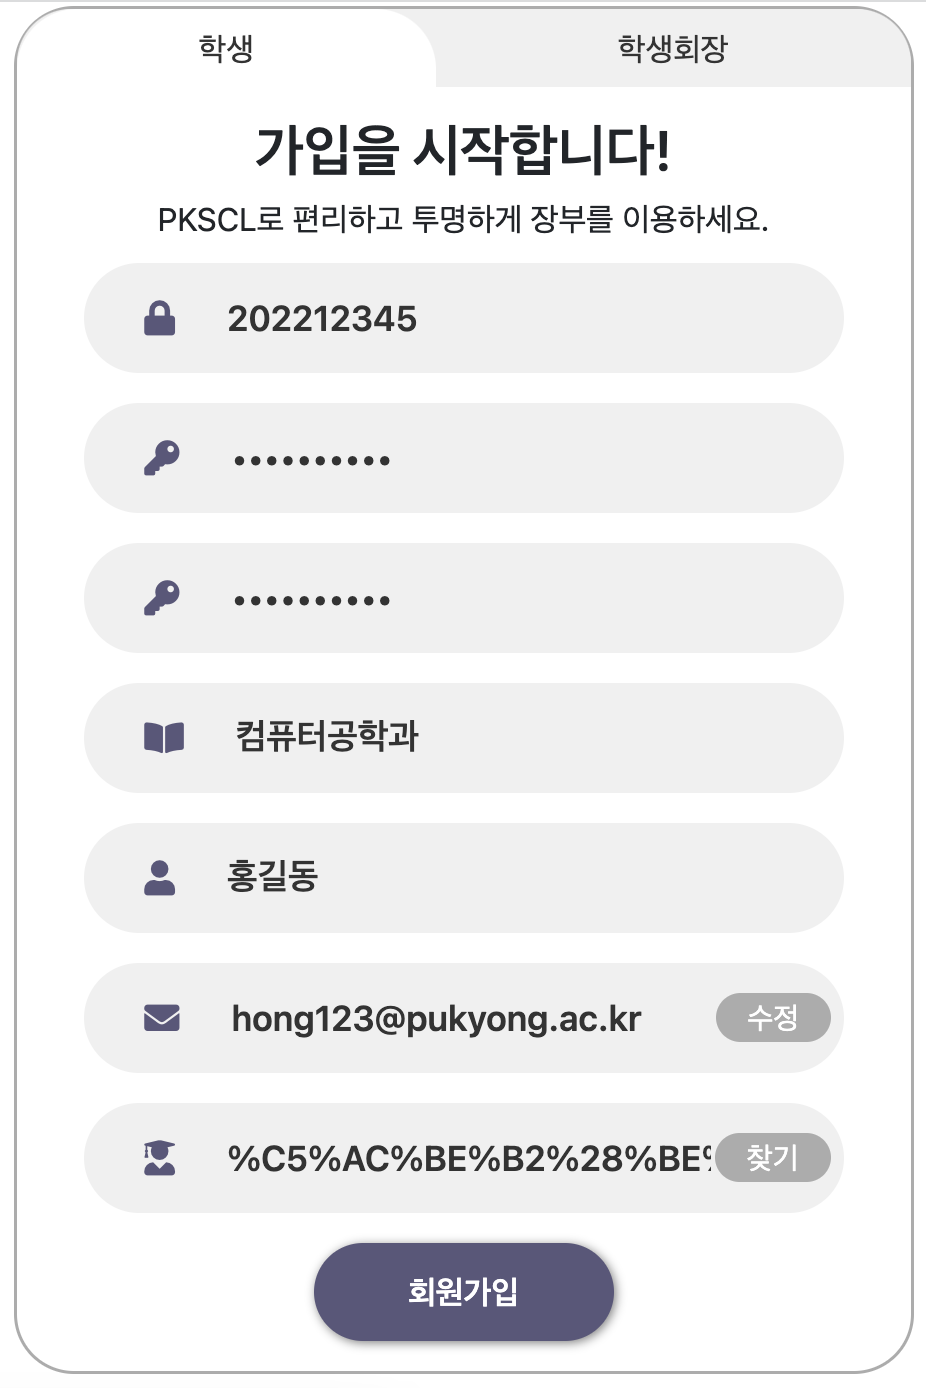
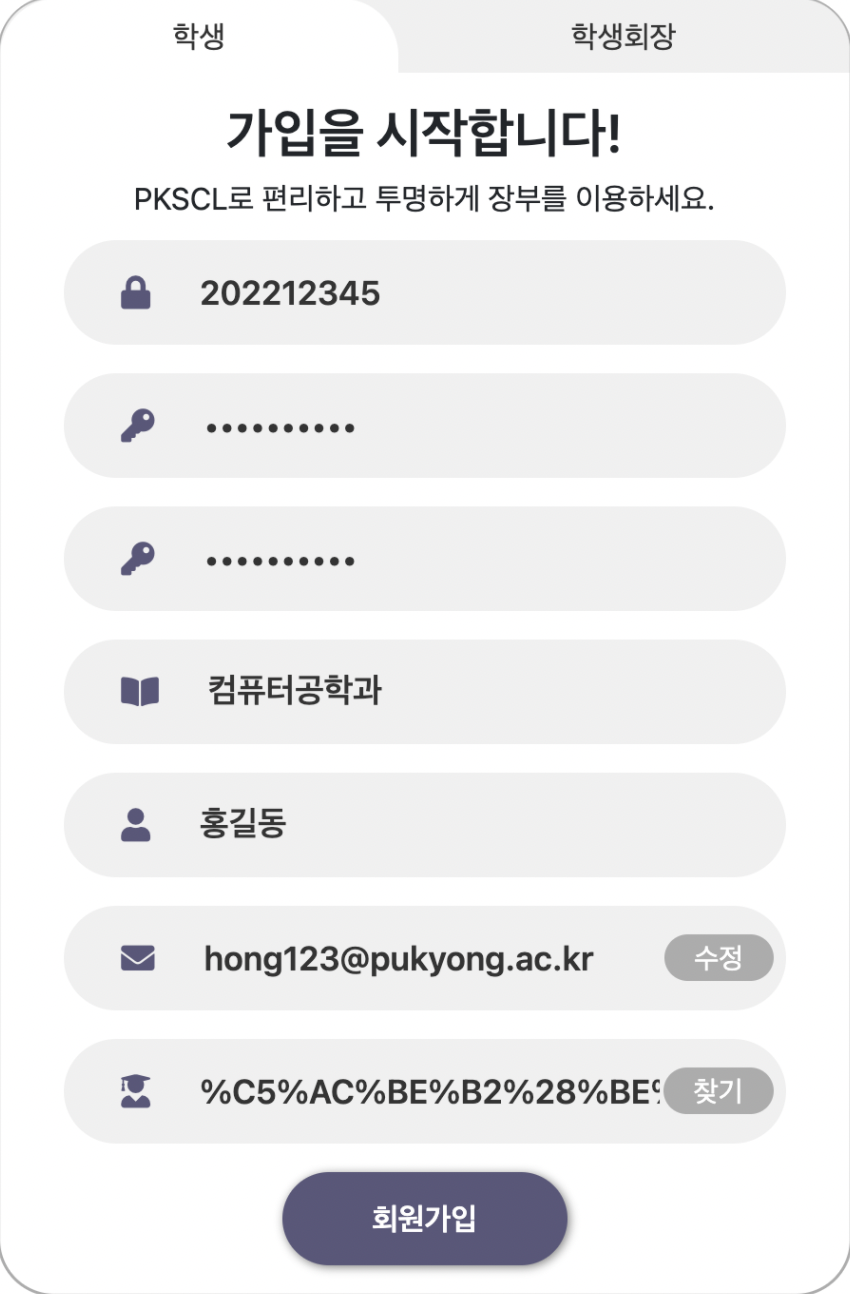
modify css

diff --git a/src/PKSCLInfo.js b/src/PKSCLInfo.js
@@ -35,14 +35,14 @@ function PKSCLInfo(props){
                </Fade> 
                     <Fade bottom> 
                     <div className="useMethod" style={{display:"flex"}}>
-                        <span className="useMethodContext">1. 학생으로 회원가입<br/><img src={`./img/PKSCLInfo/student/studentSignIn.png`} alt="학생회원가입img"  width={"250px"}/>
+                        <span className="useMethodContext">1. 학생으로 회원가입<br/><img className="PKSCLInfoImg" src={`./img/PKSCLInfo/student/studentSignIn.png`} alt="학생회원가입img"  width={"250px"}/>
                             <div className="detailContext"> 
                             - 회원가입 시 동의해야 하는 개인정보 및 PKSCL 이용 약관 동의서를 꼼꼼히 확인해주시길 바랍니다. 본 동의서 내용을 준수하지 않아 발생하는 문제는 본인에게 있습니다.</div>
                         </span>
-                        <span className="useMethodContext">2. 학생으로 로그인<br/><img src={`./img/PKSCLInfo/student/studentLogin.png`} alt="img"  width={"250px"}/>
+                        <span className="useMethodContext">2. 학생으로 로그인<br/><img className="PKSCLInfoImg"src={`./img/PKSCLInfo/student/studentLogin.png`} alt="img"  width={"250px"}/>
                          <div className="detailContext">- PKSCL의 모바일 서비스는 일부 제한되기 때문에 PC로 접속하시는 것을 권장합니다.</div>
                         </span>
-                        <span className="useMethodContext">3. 학생회장에게 승인 받기<br/><img src={`./img/PKSCLInfo/student/studentRefusal.png`} alt="img"  width={"250px"}/>
+                        <span className="useMethodContext">3. 학생회장에게 승인 받기<br/><img className="PKSCLInfoImg" src={`./img/PKSCLInfo/student/studentRefusal.png`} alt="img"  width={"250px"}/>
                             <div className="detailContext"> 
                             - 학생회장의 승인을 받은 학생만이 학과의 장부를 확인할 수 있습니다. 다만, 회원가입을 완료한 부경대 학생의 경우엔 기린학과의 임시장부를 확인하실 수 있습니다 :)
                             </div>
@@ -51,13 +51,13 @@ function PKSCLInfo(props){
                     <div style={{margin:"20px 0"}}></div>
                     <div className="useMethod" style={{display:"flex"}}>
                         
-                        <span className="useMethodContext LedgerContext">4. 장부 열람<img src={`./img/PKSCLInfo/student/studentLedger.png`} alt="학생장부열람img"  width={"450px"}/>
+                        <span className="useMethodContext LedgerContext">4. 장부 열람<img className="PKSCLInfoImg" src={`./img/PKSCLInfo/student/studentLedger.png`} alt="학생장부열람img"  width={"450px"}/>
                             <div className="detailContext LedgerContext"> 
                                 - 학생회장의 승인을 받으셨다면 신청하신 학과의 장부를 분기별로, 행사별로 확인하실 수 있습니다.
                                 <br/>- 장부에 관련된 문의가 있을 시에는 PC 화면 좌측 학생회장 이메일로 문의주시길 바랍니다.
                             </div>
                         </span>
-                        <span className="useMethodContext" style={{width:"300px"}}>5. 프로필 편집 및 회원 탈퇴<img src={`./img/PKSCLInfo/student/studentProfile.png`} alt="학생회원가입img"  width={"300px"}/>
+                        <span className="useMethodContext" style={{width:"300px"}}>5. 프로필 편집 및 회원 탈퇴<img className="PKSCLInfoImg" src={`./img/PKSCLInfo/student/studentProfile.png`} alt="학생회원가입img"  width={"300px"}/>
                             <div className="detailContext" style={{width:"300px"}}>- 전과, 개명 등의 이유로 수정이 필요할 때 사용하실 수 있습니다. 만약 장부 권한 확인 여부(이름, 학과, 학생증 등)와 관련된 정보를 수정하시면 다시 학생회장의 승인을 받아야 장부 열람이 가능합니다.
                             </div>
                         </span>
@@ -72,17 +72,17 @@ function PKSCLInfo(props){
                </Fade> 
                <Fade bottom> 
                 <div style={{display:"flex"}}>
-                        <span className="useMethodContext">1. 학생회장으로 회원가입<br/><img src={`./img/PKSCLInfo/president/presidentSignIn.png`} alt="학생회원가입img"  width={"250px"}/>
+                        <span className="useMethodContext">1. 학생회장으로 회원가입<br/><img className="PKSCLInfoImg" src={`./img/PKSCLInfo/president/presidentSignIn.png`} alt="학생회원가입img"  width={"250px"}/>
                             <div className="detailContext">
                             - 회원가입 시 동의해야 하는 개인정보 및 PKSCL 이용 약관 동의서를 꼼꼼히 확인해주시길 바랍니다. 본 동의서 내용을 준수하지 않아 발생하는 문제는 본인에게 있습니다.</div>
                         </span>
 
-                        <span className="useMethodContext">2. 학생회장으로 로그인<br/><img src={`./img/PKSCLInfo/president/presidentLogin.png`} alt="img"  width={"250px"}/>
+                        <span className="useMethodContext">2. 학생회장으로 로그인<br/><img className="PKSCLInfoImg" src={`./img/PKSCLInfo/president/presidentLogin.png`} alt="img"  width={"250px"}/>
                             <div className="detailContext">- PKSCL의 모바일 서비스는 일부 제한되기 때문에 PC로 접속하시는 것을 권장합니다.</div>
                         </span>
 
                         <span className="useMethodContext">3. PKSCL 관리자에게 승인 받기<br/>
-                        <img src={`./img/PKSCLInfo/president/presidentWaiting.png`} alt="img"  width={"250px"}/>
+                        <img className="PKSCLInfoImg" src={`./img/PKSCLInfo/president/presidentWaiting.png`} alt="img"  width={"250px"}/>
                             <div className="detailContext">- 회원가입 이후 학생회장임을 증명하기 위한 서류를 관리자에게 제출해야 합니다. PKSCL 챗봇으로 문의를 해주세요. 
                             <br/>- 본 과정은 처음 PKSCL을 사용하시는 학생회장에게만 해당이 되며, 이후에는 학생회장 권한 위임하기를 통해 차대 학생회장에게 PKSCL 장부 관리 권한을 넘길 수 있습니다.</div>
                         </span>
@@ -92,12 +92,12 @@ function PKSCLInfo(props){
                 <div style={{display:"flex"}}>
 
             {/* <div className="detailContext"> </div> */}
-                        <span className="useMethodContext" style={{width:"300px"}}><img src={`./img/PKSCLInfo/president/presidentProfile.png`} alt="학생회원가입img" width={"300px"}/>
+                        <span className="useMethodContext" style={{width:"300px"}}><img className="PKSCLInfoImg" src={`./img/PKSCLInfo/president/presidentProfile.png`} alt="학생회원가입img" width={"300px"}/>
                             <div className="detailContext" style={{width:"300px"}}>
                                 - 개명, 전화번호 변경 등의 이유로 수정이 필요할 때 사용하실 수 있습니다.
                             </div>
                         </span>
-                        <span className="useMethodContext" style={{width:"300px"}}><img src={`./img/PKSCLInfo/president/presidentMandate.png`} alt="학생회원가입img"  width={"300px"}/>
+                        <span className="useMethodContext" style={{width:"300px"}}><img className="PKSCLInfoImg" src={`./img/PKSCLInfo/president/presidentMandate.png`} alt="학생회원가입img"  width={"300px"}/>
                             <div className="detailContext" style={{width:"300px"}}>
                                 - 차기 학생회장에게 PKSCL 장부 관리 권한을 양도하실 수 있습니다.
                             </div>
@@ -111,14 +111,14 @@ function PKSCLInfo(props){
 
             {/* <div className="detailContext"> </div> */}
                     <div>
-                        <span className="useMethodContext" style={{width:"450px"}}>분기별 영수증 관리 및 장부 공개일 설정<img src={`./img/PKSCLInfo/president/presidentLedger.png`} alt="학생회원가입img" width={"450px"}/>
+                        <span className="useMethodContext" style={{width:"450px"}}>분기별 영수증 관리 및 장부 공개일 설정<img className="PKSCLInfoImg" src={`./img/PKSCLInfo/president/presidentLedger.png`} alt="학생회원가입img" width={"450px"}/>
                             <div className="detailContext" style={{width:"450px"}}>
                                 - 해당 분기의 행사별로 영수증을 업로드 하실 수 있습니다. 업로드 후에는 학생의 입장에서 장부를 확인하실 수도 있습니다.
                                 <br/>- 분기마다 장부 공개일을 설정하실 수 있습니다.
                                <br/>- 본과 학생의 입장에서 공개된 장부를 확인하실 수 있습니다.
                             </div>
                         </span>
-                        <span className="useMethodContext" style={{marginTop:"20px", width:"450px"}}>장부 열람 학생 관리<img src={`./img/PKSCLInfo/president/presidentManagement.png`} alt="학생회원가입img"  width={"450px"}/>
+                        <span className="useMethodContext" style={{marginTop:"20px", width:"450px"}}>장부 열람 학생 관리<img className="PKSCLInfoImg" src={`./img/PKSCLInfo/president/presidentManagement.png`} alt="학생회원가입img"  width={"450px"}/>
                             <div className="detailContext" style={{width:"450px"}}>
                                 - 학생들의 장부 열람 권한을 관리하실 수 있습니다. 학생증과 입력된 정보를 대조해서 본과 학생임을 확인한 경우에만 승인을 해주세요.
                             </div>

diff --git a/src/css/PKSCLInfo.css b/src/css/PKSCLInfo.css
@@ -13,6 +13,11 @@
     background: var(--color-card);
 }
 
+.PKSCLInfoImg {
+    border-radius: 20px;
+    -webkit-box-shadow: 5px 10px 24px -6px #968faf;
+    box-shadow: 5px 10px 24px -6px #968faf
+}
 
 .PKSCLInfoBackButton {
     position: fixed;
@@ -135,7 +140,7 @@
 }
 
 .detailContext {
-    margin-top: 10px;
+    margin-top: 20px;
     font-size: 0.5rem;
     width: 250px;
 }
@@ -149,7 +154,7 @@
 }
 
 .useMethodContext img {
-    padding-top: 5px;
+    margin-top: 5px;
 }
 
 
